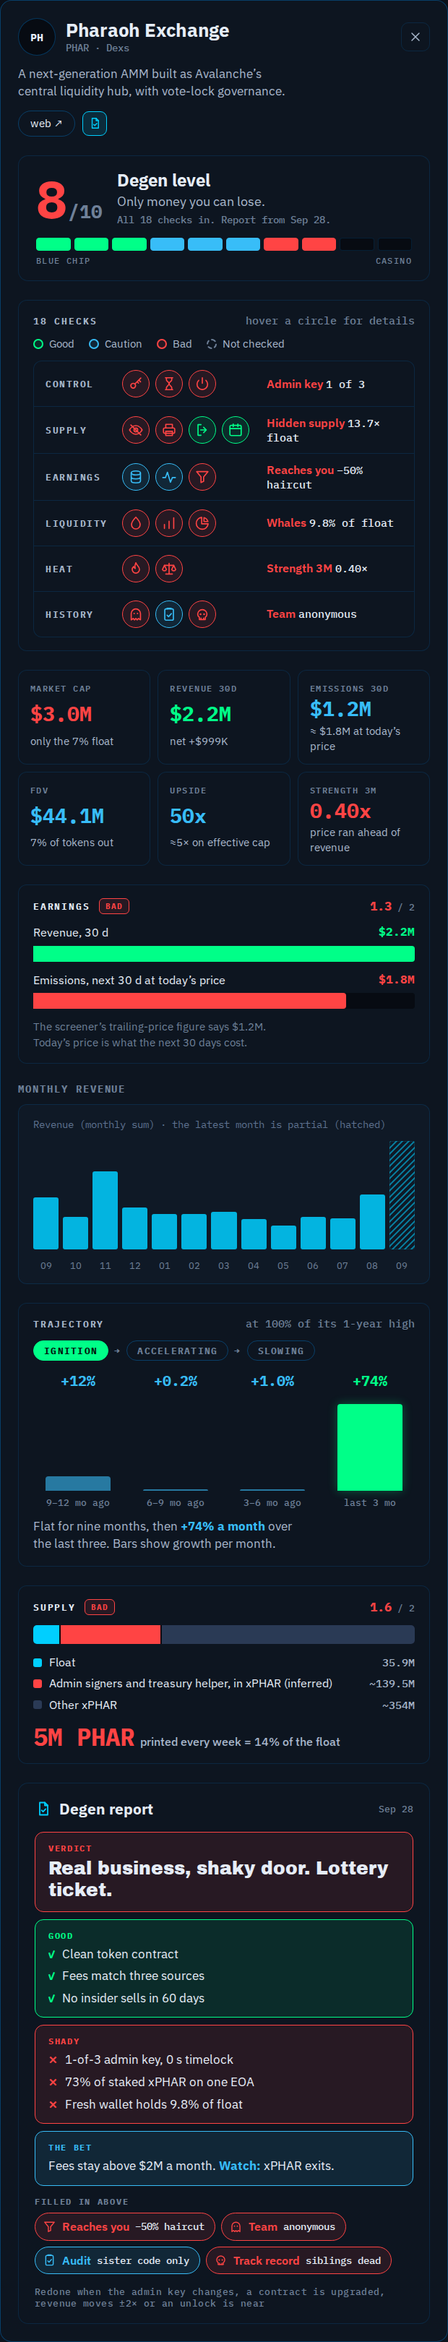
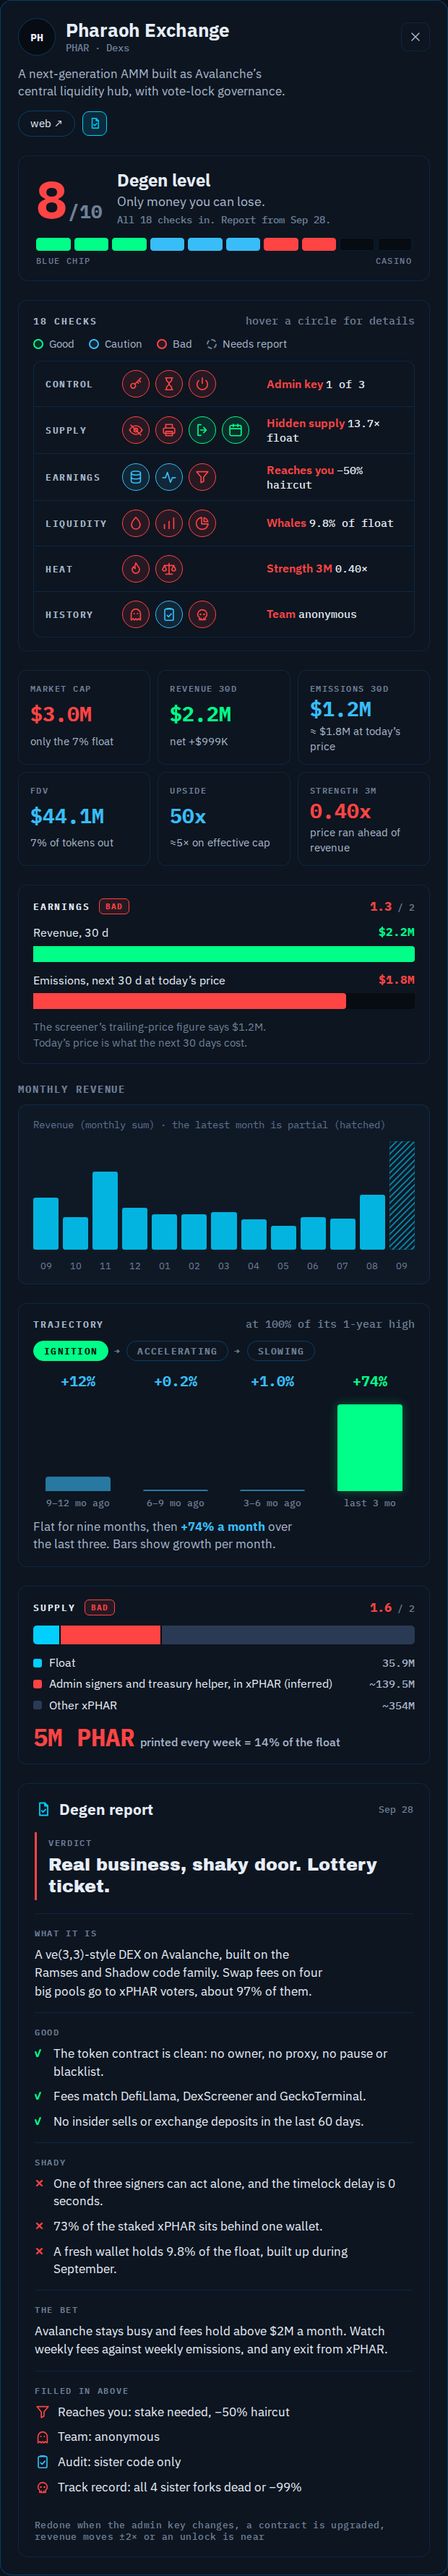
docs(degen level spec): calm Degen report, "Needs report" in the legend
- the ready report is one neutral card with more text; colour only on the
  verdict rule, the check/cross marks and the four filled-in icons
- the checks legend says "Needs report" instead of "Not checked"
- refreshed reference.html and the four screenshots

Claude-Session: https://claude.ai/code/session_01NDF9296S7sGZhTKLmGXYnb

Changed region(s): [[0.0, 0.0, 1.0, 1.0], [0.8581, 0.0935, 0.9194, 0.1247], [0.8274, 0.1247, 0.8581, 0.1558]]

diff --git a/docs/degen-level-detail/reference.html b/docs/degen-level-detail/reference.html
@@ -420,19 +420,19 @@ details.dev > .devbody { padding: 6px 26px 34px; display: grid; gap: 64px; }
 .mr-x span { flex: 1; min-width: 0; text-align: center; font: 400 13px var(--font-body); color: var(--muted); }
 
 .rc h4 .dt { margin-left: auto; font: 500 13px var(--font-mono); color: var(--muted); }
-.rr { display: grid; gap: 10px; }
-.rr-v, .rr-b { border: 1px solid var(--c); background: var(--cb); border-radius: 12px; padding: 14px 18px; display: grid; gap: 6px; }
-.rr .k { font: 700 12px var(--font-mono); letter-spacing: .14em; text-transform: uppercase; color: var(--c); }
-.rr-v b { font-family: var(--font-display); font-weight: 400; font-size: 25px; line-height: 1.2; color: var(--fg); }
-.rr ul { list-style: none; margin: 0; padding: 0; display: grid; gap: 6px; font-size: 17px; }
-.rr li { display: flex; gap: 10px; align-items: baseline; }
-.rr li::before { font: 700 15px var(--font-mono); color: var(--c); flex: none; }
-.rr li.ok::before { content: "✓"; } .rr li.no::before { content: "✕"; }
-.rr-b p { margin: 0; font-size: 17px; color: var(--fg); }
-.rr-b p b { color: var(--c); }
-.rr-f { display: grid; gap: 8px; margin-top: 4px; }
-.rr-f .k { color: var(--muted); }
-.rr-f .row { display: flex; flex-wrap: wrap; gap: 8px; }
+.rr { display: grid; gap: 0; }
+.rr .k { font: 600 12px var(--font-mono); letter-spacing: .14em; text-transform: uppercase; color: var(--muted); }
+.rr-v { border-left: 3px solid var(--c); padding: 4px 0 4px 16px; margin-bottom: 18px; display: grid; gap: 6px; }
+.rr-v b { font-family: var(--font-display); font-weight: 400; font-size: 24px; line-height: 1.25; color: var(--fg); }
+.rr-s { display: grid; gap: 8px; padding: 16px 0; border-top: 1px solid var(--line); }
+.rr-s p { margin: 0; font-size: 17px; line-height: 1.5; color: var(--fg); }
+.rr ul { list-style: none; margin: 0; padding: 0; display: grid; gap: 10px; font-size: 17px; line-height: 1.45; color: var(--fg); }
+.rr li { display: grid; grid-template-columns: 18px minmax(0, 1fr); gap: 8px; }
+.rr li::before { font: 700 15px/1.6 var(--font-mono); flex: none; }
+.rr li.ok::before { content: "✓"; color: var(--green); } .rr li.no::before { content: "✕"; color: var(--red); }
+.rr-l { display: grid; gap: 10px; }
+.rr-l .i { display: grid; grid-template-columns: 22px minmax(0, 1fr); gap: 10px; align-items: center; font-size: 17px; color: var(--fg); }
+.rr-l .i .ic { width: 22px; height: 22px; color: var(--c); }
 /* ---------- build ---------- */
 .build { display: grid; grid-template-columns: repeat(auto-fit, minmax(min(300px, 100%), 1fr)); gap: 12px; }
 .bs { background: var(--card); border: 1px solid var(--line); border-radius: 14px; padding: 22px; display: grid; gap: 12px; align-content: start; }
@@ -508,7 +508,7 @@ footer { font: 500 13px var(--font-mono); color: var(--muted); border-top: 1px s
         <div class="nt"><span class="n">1</span><div><b>Degen level on top</b><span>One number, one meter.</span></div></div>
         <div class="nt"><span class="n">2</span><div><b>One table for all 18 checks</b><span>A row per area, colored circles, the worst reason next to it.</span></div></div>
         <div class="nt"><span class="n">3</span><div><b>Then the business</b><span>Earnings, Monthly revenue, Trajectory, Supply.</span></div></div>
-        <div class="nt"><span class="n">4</span><div><b>Report card sits at the bottom</b><span>Ready: a short verdict, and the dashed circles fill in.</span></div></div>
+        <div class="nt"><span class="n">4</span><div><b>Report card sits at the bottom</b><span>Ready: a calm write-up, and the dashed circles fill in.</span></div></div>
       </div>
       <div>
         <div class="seg" id="seg" role="group" aria-label="Report state">
@@ -737,7 +737,7 @@ var CHECKS = [
 ];
 var CK = {}; CHECKS.forEach(function (c) { CK[c.id] = c; });
 var PW = {}; PILLARS.forEach(function (p) { PW[p.id] = p; });
-var VLAB = { green: 'GOOD', blue: 'CAUTION', red: 'BAD', unknown: 'NOT CHECKED' };
+var VLAB = { green: 'GOOD', blue: 'CAUTION', red: 'BAD', unknown: 'NEEDS REPORT' };
 var VCOL = { green: 'var(--green)', blue: 'var(--blue)', red: 'var(--red)', unknown: 'var(--muted)', info: 'var(--line-2)' };
 var VBG = { green: 'var(--green-bg)', blue: 'var(--blue-bg)', red: 'var(--red-bg)', unknown: 'transparent', info: 'transparent' };
 
@@ -796,8 +796,10 @@ function tipHTML(s) {
 function specForCheck(coin, id, mode) {
   var c = CK[id], inp = mode === 'ready' ? PHAR_R : INPUT_OF[coin];
   var r = RISK[id](inp), v = verdict(r);
-  var base = { icon: c.icon, name: c.name, v: v, pill: VLAB[v] };
-  if (v === 'unknown') return Object.assign(base, { val: 'Not checked yet', ctx: 'Needs ' + c.need + '.', src: c.tier === 'report' ? 'ASK FOR REPORT' : 'NEEDS SCAN', at: '' });
+  var base = { icon: c.icon, name: c.name, v: v, pill: v === 'unknown' ? (c.tier === 'report' ? 'NEEDS REPORT' : 'NOT SCANNED') : VLAB[v] };
+  if (v === 'unknown') return c.tier === 'report'
+    ? Object.assign(base, { val: 'Needs the Degen report', ctx: 'Ask for the report at the bottom to fill this in.', src: 'ASK FOR REPORT', at: '' })
+    : Object.assign(base, { val: 'Not scanned yet', ctx: 'Needs ' + c.need + '.', src: 'NEEDS SCAN', at: '' });
   if (coin === 'phar') {
     var t = (mode === 'ready' && INST_R[id]) || INST[id];
     return Object.assign(base, t);
@@ -917,7 +919,7 @@ function panelHTML(s, opt) {
   var b = band(s.level), bl = BAND[b];
   var meter = '';
   for (var i = 1; i <= 10; i++) meter += '<i class="' + (i <= s.level ? 'f ' + band(i) : i <= s.high ? 'h' : '') + '"></i>';
-  var rng = s.low === s.high ? (opt.note || 'All 18 checks in.') : 'Range ' + s.low + '–' + s.high + ' · ' + s.unknown.length + ' checks not scanned';
+  var rng = s.low === s.high ? (opt.note || 'All 18 checks in.') : 'Range ' + s.low + '–' + s.high + ' · ' + unkText(s);
   var rows = PILLARS.map(function (p) {
     var pp = s.pillars.filter(function (x) { return x.id === p.id; })[0], v = verdict(pp.f);
     var unk = Object.keys(PILLAR_OF).filter(function (k) { return PILLAR_OF[k] === p.id && s.r[k] === null; }).length;
@@ -947,7 +949,7 @@ var STEPS = ['Reading docs and site', 'Checking audits', 'Searching exploits and
 function clearTimers() { timers.forEach(clearInterval); timers = []; }
 function checksTableHTML(mode) {
   var inp = mode === 'ready' ? PHAR_R : PHAR;
-  var key = '<div class="ct-key"><span class="green"><i></i>Good</span><span class="blue"><i></i>Caution</span><span class="red"><i></i>Bad</span><span class="unknown"><i></i>Not checked</span></div>';
+  var key = '<div class="ct-key"><span class="green"><i></i>Good</span><span class="blue"><i></i>Caution</span><span class="red"><i></i>Bad</span><span class="unknown"><i></i>Needs report</span></div>';
   var rows = PILLARS.map(function (p) {
     var cs = CHECKS.filter(function (c) { return c.p === p.id; });
     var circles = cs.map(function (c) { return flBtn('phar', c.id, mode); }).join('');
@@ -972,17 +974,18 @@ function reportHTML(mode) {
     return '<div class="rc gen"><h4>' + ic('doc') + 'Writing the report…</h4><ol class="steps" id="steps">' + STEPS.map(function (s) { return '<li>' + s + '</li>'; }).join('') + '</ol></div>';
   }
   var vb = band(score(PHAR_R).level);
-  var filled = ['e3', 'y1', 'y2', 'y3'].map(function (id) {
-    var c = CK[id], v = verdict(RISK[id](PHAR_R)), txt = id === 'y2' ? 'sister code only' : c.chip;
-    return '<span class="cf ' + v + '" data-coin="phar" data-check="' + id + '" data-mode="ready" tabindex="0">' + ic(c.icon) + c.name + ' <i>' + esc(txt) + '</i></span>';
+  var filled = [['e3', 'Reaches you: stake needed, −50% haircut'], ['y1', 'Team: anonymous'], ['y2', 'Audit: sister code only'], ['y3', 'Track record: all 4 sister forks dead or −99%']].map(function (x) {
+    var c = CK[x[0]], v = verdict(RISK[x[0]](PHAR_R));
+    return '<div class="i ' + v + '" data-coin="phar" data-check="' + x[0] + '" data-mode="ready" tabindex="0">' + ic(c.icon) + '<span>' + esc(x[1]) + '</span></div>';
   }).join('');
   return '<div class="rc ready"><h4>' + ic('doccheck') + 'Degen report<span class="dt">Sep 28</span></h4>' +
     '<div class="rr">' +
     '<div class="rr-v ' + vb + '"><span class="k">Verdict</span><b>Real business, shaky door. Lottery ticket.</b></div>' +
-    '<div class="rr-b green"><span class="k">Good</span><ul><li class="ok">Clean token contract</li><li class="ok">Fees match three sources</li><li class="ok">No insider sells in 60 days</li></ul></div>' +
-    '<div class="rr-b red"><span class="k">Shady</span><ul><li class="no">1-of-3 admin key, 0 s timelock</li><li class="no">73% of staked xPHAR on one EOA</li><li class="no">Fresh wallet holds 9.8% of float</li></ul></div>' +
-    '<div class="rr-b blue"><span class="k">The bet</span><p>Fees stay above $2M a month. <b>Watch:</b> xPHAR exits.</p></div>' +
-    '<div class="rr-f"><span class="k">Filled in above</span><div class="row">' + filled + '</div></div>' +
+    '<div class="rr-s"><span class="k">What it is</span><p>A ve(3,3)-style DEX on Avalanche, built on the Ramses and Shadow code family. Swap fees on four big pools go to xPHAR voters, about 97% of them.</p></div>' +
+    '<div class="rr-s"><span class="k">Good</span><ul><li class="ok">The token contract is clean: no owner, no proxy, no pause or blacklist.</li><li class="ok">Fees match DefiLlama, DexScreener and GeckoTerminal.</li><li class="ok">No insider sells or exchange deposits in the last 60 days.</li></ul></div>' +
+    '<div class="rr-s"><span class="k">Shady</span><ul><li class="no">One of three signers can act alone, and the timelock delay is 0 seconds.</li><li class="no">73% of the staked xPHAR sits behind one wallet.</li><li class="no">A fresh wallet holds 9.8% of the float, built up during September.</li></ul></div>' +
+    '<div class="rr-s"><span class="k">The bet</span><p>Avalanche stays busy and fees hold above $2M a month. Watch weekly fees against weekly emissions, and any exit from xPHAR.</p></div>' +
+    '<div class="rr-s"><span class="k">Filled in above</span><div class="rr-l">' + filled + '</div></div>' +
     '</div>' +
     '<span class="foot">Redone when the admin key changes, a contract is upgraded, revenue moves ±2× or an unlock is near</span></div>';
 }
@@ -1002,13 +1005,19 @@ function supplyHTML(s) {
     '<div class="lg"><div><i style="background:var(--accent)"></i><span>Float</span><span class="v">35.9M</span></div><div><i style="background:var(--red)"></i><span>Admin signers and treasury helper, in xPHAR (inferred)</span><span class="v">~139.5M</span></div><div><i style="background:var(--seg)"></i><span>Other xPHAR</span><span class="v">~354M</span></div></div>' +
     '<div class="big-n">5M PHAR<small>printed every week = 14% of the float</small></div></div>';
 }
+function unkText(s) {
+  var rep = s.unknown.filter(function (k) { return CK[k].tier === 'report'; }).length, scan = s.unknown.length - rep, parts = [];
+  if (rep) parts.push(rep + (rep === 1 ? ' check needs' : ' checks need') + ' the report');
+  if (scan) parts.push(scan + ' not scanned');
+  return parts.join(', ');
+}
 function meterSegs(s) {
   var m = ''; for (var i = 1; i <= 10; i++) m += '<i class="' + (i <= s.level ? 'f ' + band(i) : i <= s.high ? 'h' : '') + '"></i>';
   return m;
 }
 function stripHTML(s, note) {
   var b = band(s.level), bl = BAND[b];
-  var rng = s.low === s.high ? (note || 'All 18 checks in.') : 'Range ' + s.low + '–' + s.high + ' · ' + s.unknown.length + ' checks not scanned';
+  var rng = s.low === s.high ? (note || 'All 18 checks in.') : 'Range ' + s.low + '–' + s.high + ' · ' + unkText(s);
   return '<div class="dstrip ' + b + '"><div class="ds-top"><div class="ds-num">' + s.level + '<small>/10</small></div><div class="ds-lab"><b>Degen level</b><span>' + bl[1] + '</span><em>' + rng + '</em></div></div>' +
     '<div><div class="m10">' + meterSegs(s) + '</div><div class="m10-s"><span>Blue chip</span><span>Casino</span></div></div></div>';
 }

diff --git a/docs/degen-level-detail/SPEC.md b/docs/degen-level-detail/SPEC.md
@@ -13,7 +13,7 @@
 
 **The detail.** It is a long stack, and the most useful pieces (Monthly revenue, Trajectory, "is the revenue real") are hard to find. New order, few words, big type, and **one table that shows which checks light up and which do not.**
 
-**The report.** The existing Degen report button stays, but moves to the very bottom of the detail. It does two things: it fills in the four checks that data alone cannot answer (team, audits, track record, token mechanics), and it shows a short verdict that a degen can take in at a glance, with no table and nothing that repeats the tiles above.
+**The report.** The existing Degen report button stays, but moves to the very bottom of the detail. It does two things: it fills in the four checks that data alone cannot answer (team, audits, track record, token mechanics), and it shows a short write-up that reads at a glance: a calm card with the verdict, what it is, the good, the shady and the bet, and no table.
 
 The Degen level is the one place where several checks become one number. In Part 3 "no composite score" is about the Sectors themes only. Here the level is **display only: it is never a sort key, a filter, a gate, or an input to Top Picks, Degen picks or any fund.**
 
@@ -61,13 +61,13 @@ Seven checks already exist on the live page in some form, seven are new and full
 - an area = 60% of its worst check + 40% of the average of its checks;
 - level = the sum of weight × area, rounded, at least 1 (the weights add up to 10);
 - floors: a source that is not verified, or a token an EOA can mint, gives at least 8;
-- **range:** run it twice, with every "not checked" as best case and as worst case. If the two levels differ, the meter hatches the segments up to the higher one and the detail says "Range 8–9 · 3 checks not scanned". The report removes most of the range.
+- **range:** run it twice, with every "not checked" as best case and as worst case. If the two levels differ, the meter hatches the segments up to the higher one and the detail says "Range 8–9 · 3 checks need the report". The report removes most of the range.
 
 ### C. The coin detail, top to bottom
 
 1. **Header:** logo, name, symbol · category, one plain line, "web ↗", the Trade button as today, and a small **report status icon**: dashed = not researched, solid = ready, solid with a dot = outdated.
-2. **Degen level strip:** the number big in its band colour ("8/10"), "Degen level", the band's sentence, the range line ("All 18 checks in" or "Range 8–9 · 3 checks not scanned"), and the ten-segment meter with "Blue chip" and "Casino" at its ends. **No breakdown by area under it.**
-3. **Checks table.** A legend line (Good · Caution · Bad · Not checked). One row per area: the area name, one **circle per check** (its own icon, the colour of its verdict; dashed grey = not checked), and on the right the area's **worst reason** as "Check name value" in that colour, or "Needs the report" when nothing in the area is checked. Hover or focus on a circle shows a tooltip: check name, verdict word, the value in one line, one line of context, and where it came from (on-chain / data / inferred / AI report) with its date; at most 20 words. Every circle is keyboard-focusable. The 18 icons must be distinct (`reference.html`, section "The 18 checks").
+2. **Degen level strip:** the number big in its band colour ("8/10"), "Degen level", the band's sentence, the range line ("All 18 checks in" or "Range 8–9 · 3 checks need the report"), and the ten-segment meter with "Blue chip" and "Casino" at its ends. **No breakdown by area under it.**
+3. **Checks table.** A legend line (Good · Caution · Bad · Needs report). One row per area: the area name, one **circle per check** (its own icon, the colour of its verdict; dashed grey = missing: "Needs report" for the four report checks, "Not scanned" for an automatic check that could not run), and on the right the area's **worst reason** as "Check name value" in that colour, or "Needs the report" when nothing in the area is checked. Hover or focus on a circle shows a tooltip: check name, verdict word, the value in one line, one line of context, and where it came from (on-chain / data / inferred / AI report) with its date; at most 20 words. Every circle is keyboard-focusable. The 18 icons must be distinct (`reference.html`, section "The 18 checks").
 4. **Six key numbers in tiles:** Market cap, Revenue 30d, Emissions 30d, FDV, Upside, Strength 3M. **Every big number is green, light blue or red** by its verdict (grey only when missing); one plain caption under each. Emissions also shows the next 30 days at today's price when it differs ("≈ $1.8M at today's price"). Upside also shows **the figure on the effective cap** when the revenue goes to a staked or locked form of the token rather than the listed one ("≈5× on effective cap"); how you value that form is your call, say how in the note.
 5. **Earnings:** two bars, revenue 30 d against next-30-day emissions at today's price, and one line on the gap.
 6. **Monthly revenue:** the chart as it is today (13 monthly bars, the latest one hatched as partial, the same caption).
@@ -76,7 +76,7 @@ Seven checks already exist on the live page in some form, seven are new and full
 9. **Degen report card, at the very bottom, three states:**
    - *Not researched:* a dashed card, the button "Ask for Degen report", and the four dashed circles it will fill in (Reaches you, Team, Audit, Track record).
    - *Generating:* a few plain steps ticking off.
-   - *Ready:* **no table.** Four coloured blocks, top to bottom, with a date in the card's corner: **Verdict** (one line, big, in the level's band colour), **Good** (at most 3 short lines, green), **Shady** (at most 3 short lines, red), **The bet** (one line plus the one metric to watch, light blue). Under them "Filled in above": the four checks the report just resolved, as coloured chips (icon, name, value), each with the same tooltip as its circle. One small line says when it will be redone (admin change, contract upgrade, revenue ±2×, unlock nearby). What the tiles, Earnings and the header already show (what it is, where the money comes from, the numbers) is not repeated.
+   - *Ready:* **calm, not colourful, and a little more text is welcome.** No table and no coloured boxes: one neutral card, sections stacked with a small label above each text, thin lines between them, a date in the corner. Colour only where it carries meaning: a rule in the level's band colour beside the Verdict, green ✓ and red ✕ marks in front of the Good and Shady lines, and the four small icons in "Filled in above". Sections, top to bottom: **Verdict** (one line, big), **What it is** (two sentences, including where the money comes from), **Good** (up to 3 sentences), **Shady** (up to 3 sentences), **The bet** (one or two sentences and the one metric to watch), **Filled in above** (the four checks the report just resolved, one line each with the check's icon; each has the same tooltip as its circle). About 150 words in total. One small line says when it will be redone (admin change, contract upgrade, revenue ±2×, unlock nearby). Do not repeat what the tiles and Earnings already show (the numbers).
    When the report is ready, the four circles in the checks table turn from dashed to coloured (their tooltips say "AI report" and the date) and the level's range disappears.
 
 Sections of today's detail that are not listed (Weekly history, Upside over time, the Growth windows table, "How it's calculated") are not part of this redesign. Keep any you find useful as **collapsed rows between Supply and the report**, and make sure nothing runs past the panel's edge (today the last columns of the quarter table and the Growth windows table are cut off).
@@ -87,7 +87,7 @@ Green = good for a buyer, **light blue = caution** (as in today's Legend: amber 
 
 ### E. Agents
 
-The coin endpoint returns the level (`level`, `low`, `high`, `band`) and all 18 checks (`id`, `area`, `verdict`, `value`, `unit`, `source`, `as_of`), with machine codes in English, units and as-of times on every number. The compact ranked list carries the level only. The report endpoint keeps the full eight lines (What it is / Money / Real or printed / Numbers / Good / Shady / The bet / Verdict) for agents; the detail shows only the four blocks above. llms.txt and the MCP coin tool mention them.
+The coin endpoint returns the level (`level`, `low`, `high`, `band`) and all 18 checks (`id`, `area`, `verdict`, `value`, `unit`, `source`, `as_of`), with machine codes in English, units and as-of times on every number. The compact ranked list carries the level only. The report endpoint keeps the full eight lines (What it is / Money / Real or printed / Numbers / Good / Shady / The bet / Verdict) for agents; the detail shows the sections listed in C.9. llms.txt and the MCP coin tool mention them.
 
 ## Acceptance — check each point
 
@@ -99,7 +99,7 @@ The coin endpoint returns the level (`level`, `low`, `high`, `band`) and all 18 
 6. **One colour rule** on every number in the row, the tiles, the table and the charts (D).
 7. **Emissions at today's price** is shown; **Upside on the effective cap** is shown where the revenue goes to a staked or locked form of the token, with the valuation method in the note.
 8. **Monthly revenue** looks as today; **Trajectory** is the stepper with four quarter bars; **Supply** appears where data exists.
-9. **The Degen report** sits at the bottom with the three states; when ready it shows Verdict / Good / Shady / The bet as four coloured blocks (no table, nothing repeated from above), lists the four checks it filled in, turns their circles from dashed to coloured and firms up the level.
+9. **The Degen report** sits at the bottom with the three states; when ready it is one calm card (Verdict, What it is, Good, Shady, The bet, about 150 words, colour only on the verdict rule, the ✓/✕ marks and the four icons), lists the four checks it filled in, turns their circles from dashed to coloured and firms up the level.
 10. **The Legend** lists the meter, the 18 icons and the four colours, at most 8 words each.
 11. **The API and agent files** carry the level and the checks as in E.
 12. **Look:** the reference's look on desktop, big readable type, few words; nothing overflows the panel.
